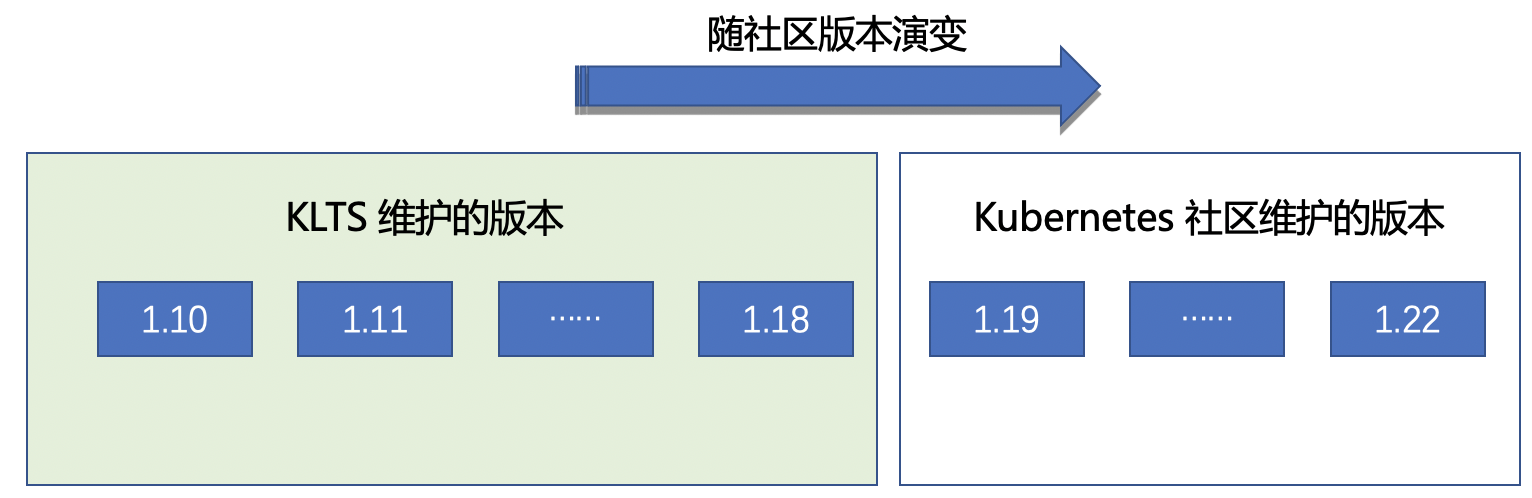
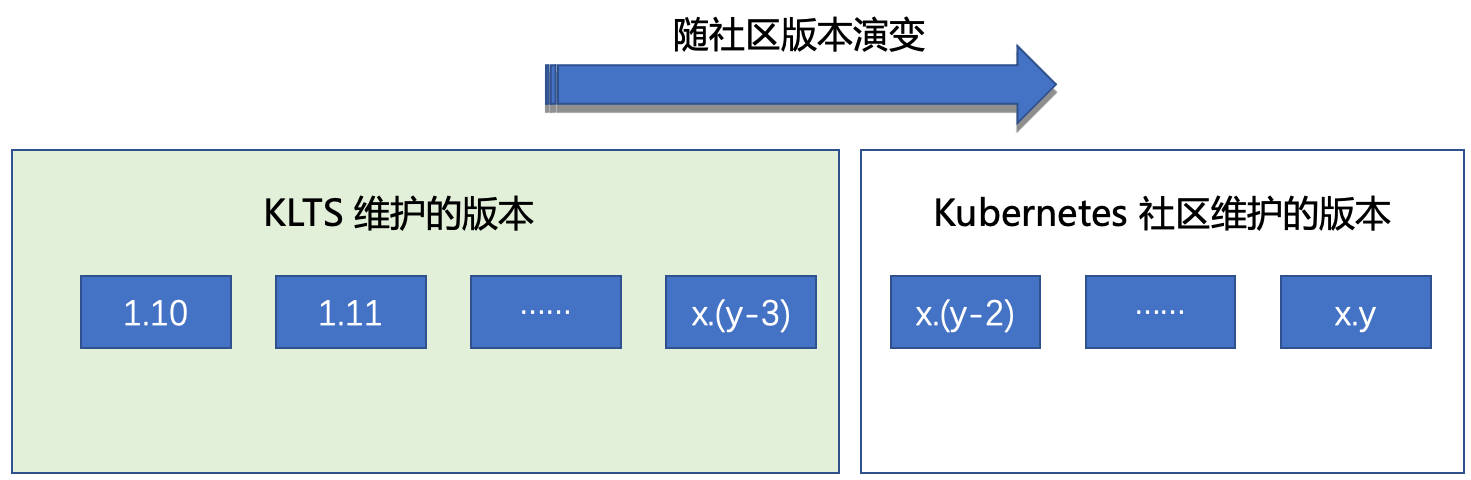
text changes after the 1st bi-week meeting

diff --git a/content/zh/docs/intro.md b/content/zh/docs/intro.md
@@ -4,24 +4,32 @@ weight: 10
 ---
 KLTS 全称为 Kubernetes Long Term Support，主要使命是为 Kubernetes 早期版本提供长期免费的维护支持。
 
-之所以需要维护早期版本，是因为在实际生产环境中，最新版本不一定是最好的，也不是最稳定的。正常而言，Kubernetes 的某个版本在初次发布后一年，才能提供稳定版本，请参阅 [Kubernetes 版本发行周期](#release-cycle)。
+之所以需要维护早期版本，是因为在实际生产环境中，最新版本不一定是最好的，也不是最稳定的。正常而言，Kubernetes 社区版本的维护周期只有一年左右，请参阅 [Kubernetes 版本发行周期](#release-cycle)。  
 
-如下图所示，目前 1.10 - 1.18 是 KLTS 正在维护的版本，而 1.19 - 1.22 是 Kubernetes 社区维护的版本，具体请参阅[社区版本维护声明](https://kubernetes.io/releases/version-skew-policy/#supported-versions)。
+在实际生产中，大多数企业采用早期的 Kubernetes 版本管控集群，这是为什么呢？  
+
+首先，升级频率高会带来变更风险，每次升级必须进行充分验证。特别是金融行业的平台层变更周期通常比较长，一旦新版本存在 bug，还需要快速响应升级至更新的版本。  
+
+其次，Kubernetes 升级后部分功能的替代方案还没有完全生产就绪，常会出现不兼容的状况。  
+
+最后，Kubernetes 社区仅支持小版本 +1 升级，不支持跨版本升级，因为跨版本升级经常会出现一些不可控的因素，造成更大的生产问题。  
+
+所以大多数企业的选择是沿用早期版本，不会贸然升级。但 Kubernetes 社区只维护最新的 3 到 4 个版本，如何才能保证这些早期版本免受社区不定时发现的 CVE 漏洞和 bug 的袭扰呢？这就是 KLTS 的价值所在！我们对早期版本提供长达 3 年的免费维护支持。  
+## KLTS 维护周期 {#maint-cycle}
+Kubernetes 社区版本表示为 x.y.z，其中 x 是大版本号，y 是小版本号，z 是补丁版本，KLTS 提供的补丁版本号通常以 lts0、lts1…ltsn 表示。为了方便表述，本节用前两位 x.y 描述 Kubernetes 版本号。  
+
+假设社区发布的最新 Kubernetes 版本为 x.y，根据[社区版本维护声明](https://kubernetes.io/releases/version-skew-policy/#supported-versions)，社区仅维护最近的三个版本，而 KLTS 维护从 1.10 起的近十个早期版本，如下图所示。  
 
 <img src="../klts_job.png" width="750">
 
-以 1.19 为例，其稳定版本预计在 2021 年 10 月 28 日提供，但 1.19 稳定版本并不能完全兼容 1.10 到 1.18 的诸多功能，中间有无数次的版本迭代开发，如果企业贸然升级到 1.19，很可能会引发生产事故。而其他 1.20 - 1.22 等新版本也有类似的问题。
-
-现在大多数企业的选择是沿用早期版本，不会贸然升级。但 Kubernetes 社区只维护最新的 4 个版本，如何才能保证早期版本免受社区不定时发现的 CVE 漏洞和 bug 的袭扰呢？这就是 KLTS 的价值所在！我们对早期版本提供长达 3 年的免费维护支持。  
-## KLTS 维护周期 {#maint-cycle}
-KLTS 目前维护了 9 个稳定版本：1.10.13, 1.11.10, 1.12.10, 1.13.12, 1.14.10, 1.15.12, 1.16.15, 1.17.17, 1.18.20。
-
-如果 Kubernetes 社区发现可能影响生产的 CVE 新漏洞或 bug，KLTS 团队将接手社区放弃维护的这些版本，使其处于持续维护状态。目前这 9 个版本的维护周期如下：
+如果 Kubernetes 社区发现可能影响生产的 CVE 新漏洞或 bug，KLTS 团队将接手社区放弃维护的这些版本，使其处于持续维护状态。目前这些早期版本的维护周期如下：  
 
 ![KLTS 维护版本](../images/whatKLTSdoes.png)
 
 从上图可看出，Kubernetes 社区对某个版本的维护周期通常在一年左右，而 KLTS 可以在接下来的三年内提供长期维护，直至代码无法兼容，才会将相应版本淘汰。
-## 漏洞修复 {#bug-fix}
+## KLTS 修复范围 {#bug-fix}
+有些高优先级的 CVE 或严重 Bug 存在于生产环境中会造成较大的安全隐患。CVE 安全问题是集群的生命线，KLTS 会优先修复中高级别的 CVE，其次会修复重大 Bug，确保生产环境稳定运行。  
+
 以 2021 年 1 月发现的 [CVE-2021-3121](https://www.cvedetails.com/cve/CVE-2021-3121) 安全漏洞为例，CVSS 危急分数高达 7.5。但截止 2021 年 9 月 Kubernetes 社区：
 
 - 仅修复了 4 个版本：1.18、1.19、1.20、1.21
@@ -42,13 +50,30 @@ KLTS 针对这一现状，默默修复了深受 [CVE-2021-3121](https://www.cved
 - v1.10.13
 
 如果您觉得 KLTS 团队的付出有价值，让您值得信赖，欢迎任何开发者加入 [KLTS 社区](https://github.com/klts-io)交流并做出贡献。
-## 版本说明 {#klts-ver}
-KLTS 提供的 Kubernetes 常见版本号如下：   
-<img src="../klts_ver.png" width="300">
+## KLTS 优势 {#klts-benefits}
+**维护周期长**  
 
-其中 V1.16.15 是 Kubernetes 的完整发行版本号，1.16 是大版本号，15 是社区补丁版本，而 lts.0 是 KLTS 提供的补丁版本号。 
+Kubernetes 社区对每个版本提供一年左右的维护，而 KLTS 接下来会为该版本提供长达 3 年的持续维护。  
+
+**安全稳定**  
+
+小版本升级更安全，兼容性高  
+
+渐进式升级稳定性更好。譬如最新版本的新功能也许很有吸引力，但是不一定能达到生产可用的标准，需要较长时间的积累。  
+
+**易于安装**  
+
+结合国内镜像加速，原生支持 Kubeadm，支持 CentOS、Ubuntu、openSUSE，还提供了一键安装脚本。  
+
+**公开透明**  
+
+GitHub 托管开源项目，全流程公开。  
+
+**全链路规划**  
+
+后续会添加 Containerd 及其他组件的长期维护。
 ## Kubernetes 版本发行周期 {#release-cycle}
-Kubernetes 社区最近 12 个版本的发布时间统计如下：
+Kubernetes 社区最近十多个版本的发布时间统计如下：  
 
 | **K8s 版本** | **初次发布日期** | **稳定版本日期** |
 | :----------- | :--------------- | :------------------- |
